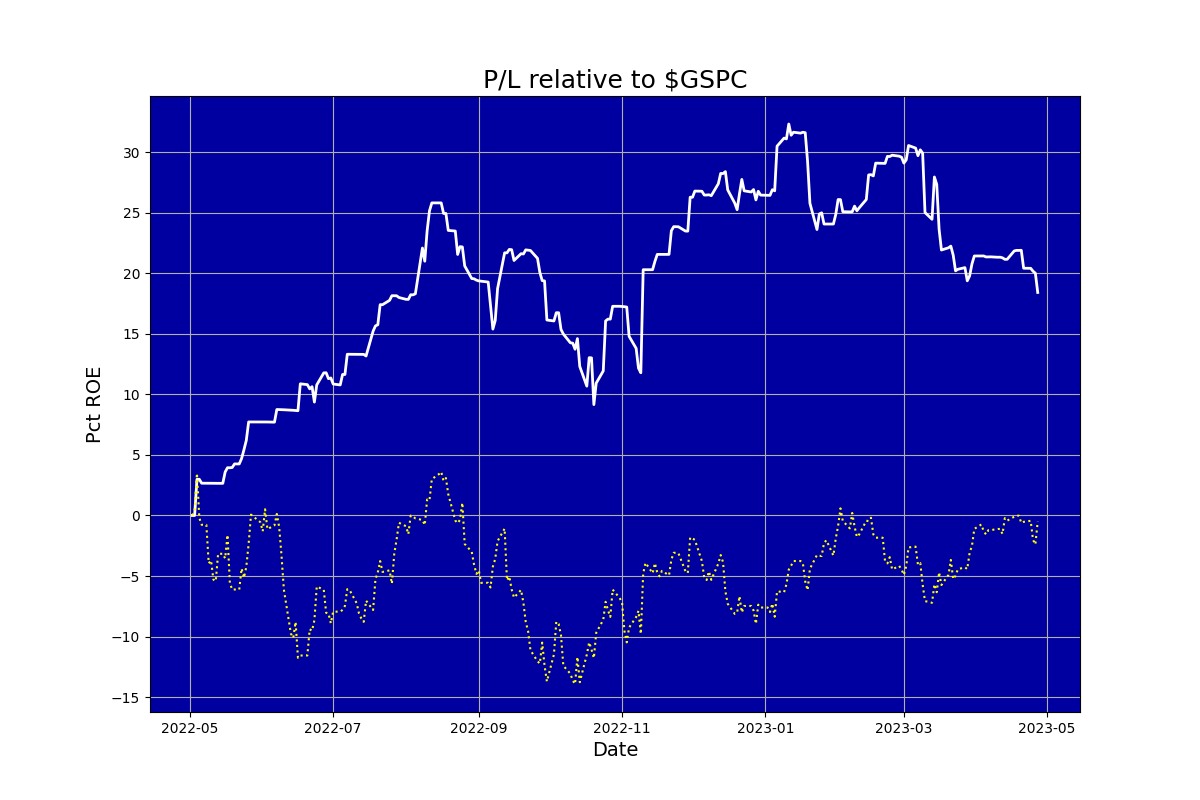
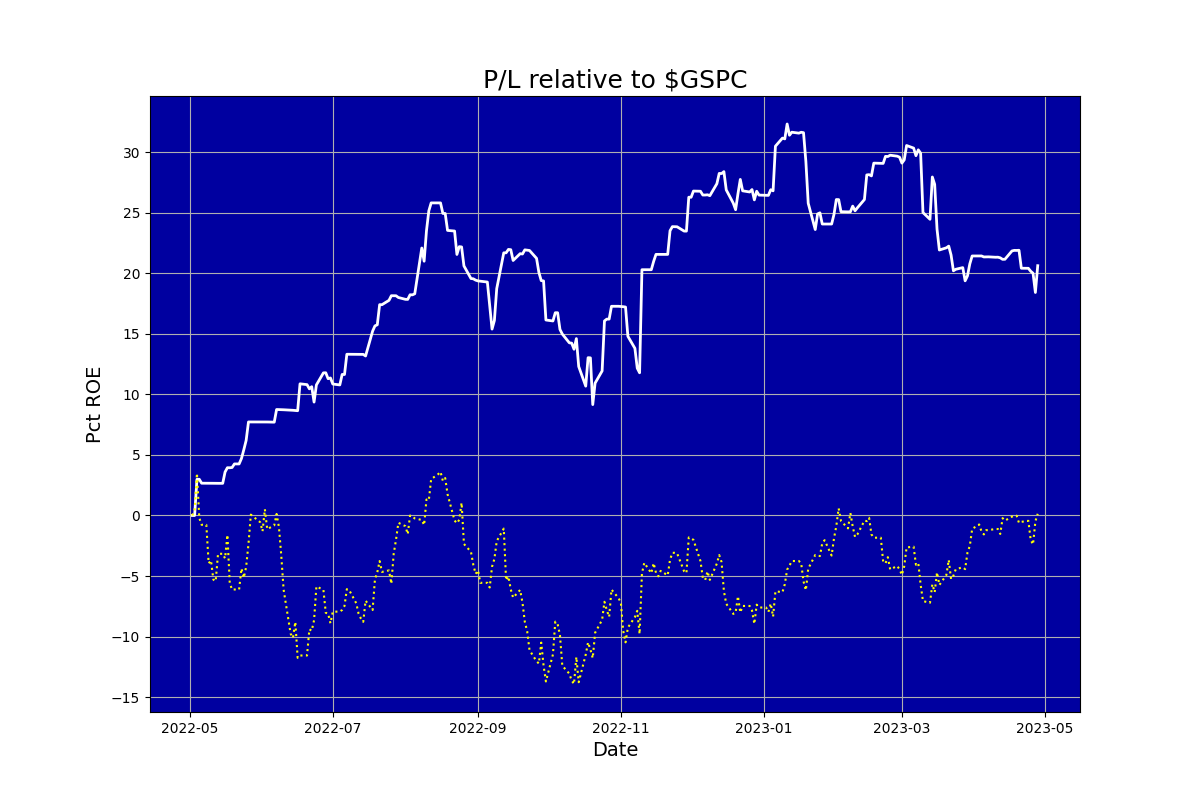
Updated

diff --git a/ig_report.html b/ig_report.html
@@ -1,1 +1,1 @@
-<html><body><center><h1>Auriel (never knowingly overbought)</h1></center><table cols=2><tr><td><img src=ig_pl.png></td><td><table cols=2><tr><td colspan=2><b><br>Snapshot</b></td></tr><tr><td>Last updated:&nbsp;&nbsp;&nbsp;</td><td>2023-04-27 15:54</td></tr><tr><td>Margin:&nbsp;&nbsp;&nbsp;</td><td>0.25</td></tr><tr><td>Cushion:&nbsp;&nbsp;&nbsp;</td><td>-9292.07</td></tr><tr><td>Last closed trade:&nbsp;&nbsp;&nbsp;</td><td>2023-04-27</td></tr><tr><td colspan=2><b><br>Positions</b></td></tr><tr><td>Mean days to new high:&nbsp;&nbsp;&nbsp;</td><td>12.19</td></tr><tr><td colspan=2><b><br>Trades</b></td></tr><tr><td>Traded days:&nbsp;&nbsp;&nbsp;</td><td>261</td></tr><tr><td>Profitable days pct:&nbsp;&nbsp;&nbsp;</td><td>37.93</td></tr><tr><td>Days beat S&P pct:&nbsp;&nbsp;&nbsp;</td><td>55.02</td></tr><tr><td>Profitable months pct:&nbsp;&nbsp;&nbsp;</td><td>66.67</td></tr><tr><td colspan=2><b><br>Performance</b></td></tr><tr><td>Pct median monthly ROE:&nbsp;&nbsp;&nbsp;</td><td>1.28</td></tr><tr><td>Pct annualised ROE:&nbsp;&nbsp;&nbsp;</td><td>17.64</td></tr><tr><td colspan=2><b><br>Risk</b></td></tr><tr><td>Volatility pct:&nbsp;&nbsp;&nbsp;</td><td>19.32</td></tr><tr><td>Benchmark volatility pct:&nbsp;&nbsp;&nbsp;</td><td>22.45</td></tr><tr><td>Sharpe ratio (RFR 5.0%):&nbsp;&nbsp;&nbsp;</td><td>0.74</td></tr><tr><td>Sortino ratio (RFR 5.0%):&nbsp;&nbsp;&nbsp;</td><td>1.03</td></tr><tr><td>Calmar ratio:&nbsp;&nbsp;&nbsp;</td><td>1.06</td></tr><tr><td>Worst drawdown pct:&nbsp;&nbsp;&nbsp;</td><td>-0.17</td></tr><tr><td>Recovery days from worst drawdown:&nbsp;&nbsp;&nbsp;</td><td>29.00</td></tr><tr><td>Beat benchmark +ve periods pct:&nbsp;&nbsp;&nbsp;</td><td>63.73</td></tr><tr><td>Beat benchmark -ve periods pct:&nbsp;&nbsp;&nbsp;</td><td>89.37</td></tr><tr><td>Correlation with benchmark:&nbsp;&nbsp;&nbsp;</td><td>0.35</td></tr></table></td></tr></table></body></html>
+<html><body><center><h1>Auriel (never knowingly overbought)</h1></center><table cols=2><tr><td><img src=ig_pl.png></td><td><table cols=2><tr><td colspan=2><b><br>Snapshot</b></td></tr><tr><td>Last updated:&nbsp;&nbsp;&nbsp;</td><td>2023-04-28 15:54</td></tr><tr><td>Margin:&nbsp;&nbsp;&nbsp;</td><td>0.00</td></tr><tr><td>Cushion:&nbsp;&nbsp;&nbsp;</td><td>-9135.31</td></tr><tr><td>Last closed trade:&nbsp;&nbsp;&nbsp;</td><td>2023-04-28</td></tr><tr><td colspan=2><b><br>Positions</b></td></tr><tr><td>Mean days to new high:&nbsp;&nbsp;&nbsp;</td><td>12.21</td></tr><tr><td colspan=2><b><br>Trades</b></td></tr><tr><td>Traded days:&nbsp;&nbsp;&nbsp;</td><td>262</td></tr><tr><td>Profitable days pct:&nbsp;&nbsp;&nbsp;</td><td>38.17</td></tr><tr><td>Days beat S&P pct:&nbsp;&nbsp;&nbsp;</td><td>55.20</td></tr><tr><td>Profitable months pct:&nbsp;&nbsp;&nbsp;</td><td>66.67</td></tr><tr><td colspan=2><b><br>Performance</b></td></tr><tr><td>Pct median monthly ROE:&nbsp;&nbsp;&nbsp;</td><td>1.28</td></tr><tr><td>Pct annualised ROE:&nbsp;&nbsp;&nbsp;</td><td>19.68</td></tr><tr><td colspan=2><b><br>Risk</b></td></tr><tr><td>Volatility pct:&nbsp;&nbsp;&nbsp;</td><td>19.40</td></tr><tr><td>Benchmark volatility pct:&nbsp;&nbsp;&nbsp;</td><td>22.43</td></tr><tr><td>Sharpe ratio (RFR 5.0%):&nbsp;&nbsp;&nbsp;</td><td>0.85</td></tr><tr><td>Sortino ratio (RFR 5.0%):&nbsp;&nbsp;&nbsp;</td><td>1.18</td></tr><tr><td>Calmar ratio:&nbsp;&nbsp;&nbsp;</td><td>1.18</td></tr><tr><td>Worst drawdown pct:&nbsp;&nbsp;&nbsp;</td><td>-0.17</td></tr><tr><td>Recovery days from worst drawdown:&nbsp;&nbsp;&nbsp;</td><td>29.00</td></tr><tr><td>Beat benchmark +ve periods pct:&nbsp;&nbsp;&nbsp;</td><td>63.22</td></tr><tr><td>Beat benchmark -ve periods pct:&nbsp;&nbsp;&nbsp;</td><td>89.31</td></tr><tr><td>Correlation with benchmark:&nbsp;&nbsp;&nbsp;</td><td>0.36</td></tr></table></td></tr></table></body></html>
